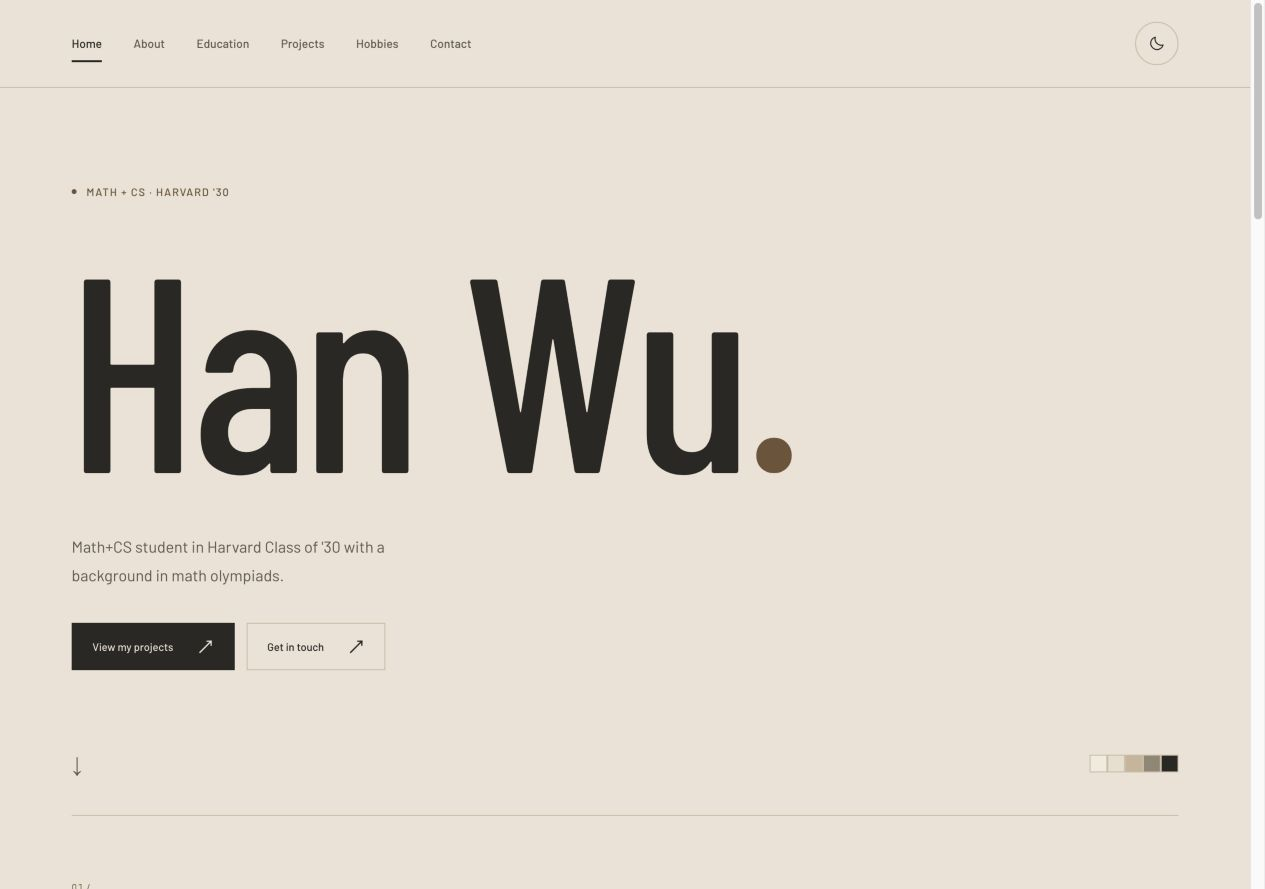
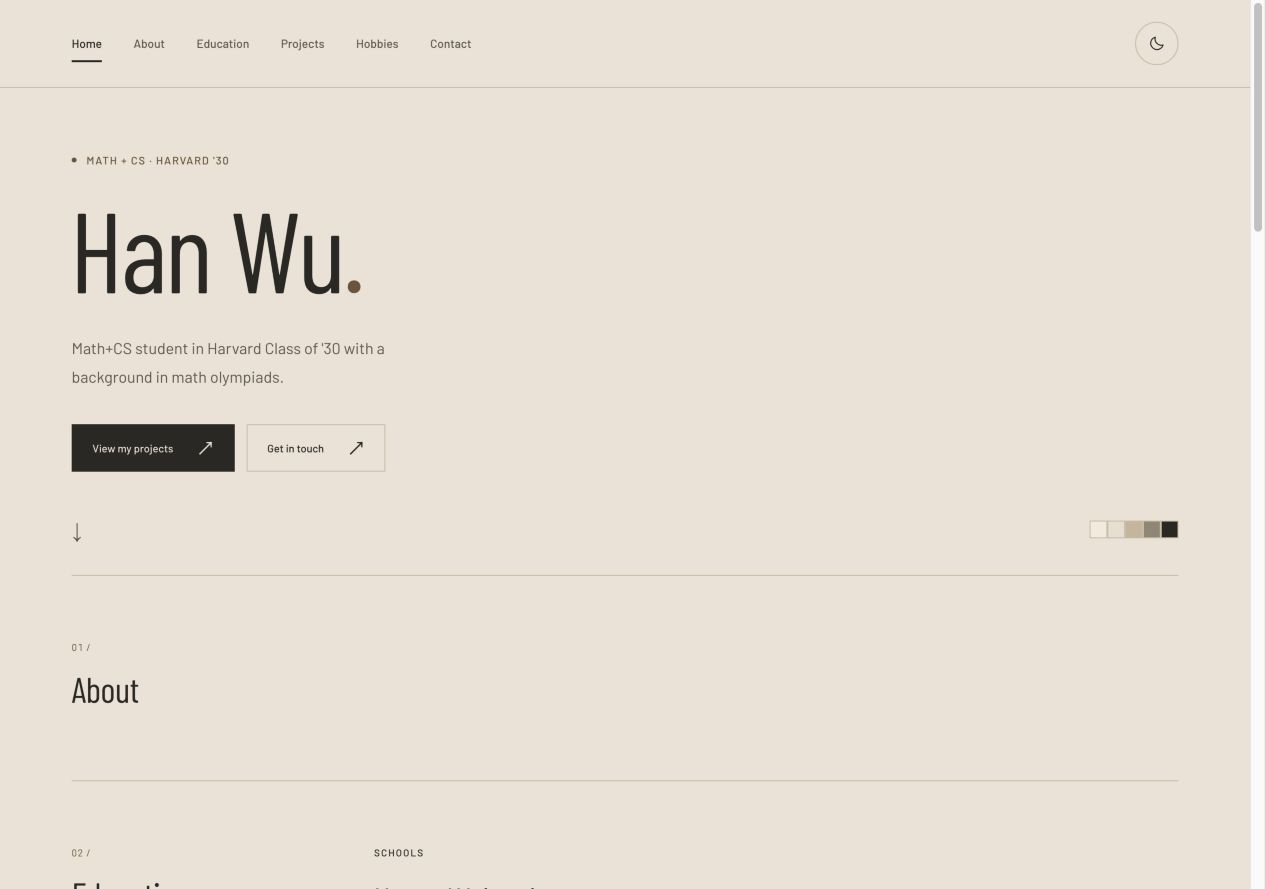
Reduce heading size and weight; use lists and expand club names

diff --git a/css/style.css b/css/style.css
@@ -37,10 +37,10 @@ ul { list-style: none; margin: 0; padding: 0; }
 .sun-icon { display: none; }
 html[data-theme="dark"] .sun-icon { display: block; }
 html[data-theme="dark"] .moon-icon { display: none; }
-.hero { padding-top: 96px; padding-bottom: 34px; }
+.hero { padding-top: 64px; padding-bottom: 28px; }
 .eyebrow { display: flex; align-items: center; gap: 10px; color: var(--accent); font-size: 11px; font-weight: 500; letter-spacing: .1em; text-transform: uppercase; }
 .status-dot { width: 5px; height: 5px; background: var(--accent); border-radius: 50%; }
-h1 { margin: 24px 0 32px -5px; font-family: "Barlow Condensed", "Arial Narrow", sans-serif; font-size: clamp(140px, 22vw, 280px); line-height: 1; font-weight: 500; letter-spacing: -.025em; white-space: nowrap; }
+h1 { margin: 20px 0 26px -2px; font-family: "Barlow Condensed", "Arial Narrow", sans-serif; font-size: clamp(80px, 9vw, 116px); line-height: 1.05; font-weight: 400; letter-spacing: -.025em; white-space: nowrap; }
 .name-period { color: var(--accent); }
 .tagline { max-width: 350px; font-size: 16px; color: var(--text-muted); line-height: 1.8; }
 .cta-row { display: flex; align-items: center; gap: 12px; margin-top: 34px; }
@@ -50,14 +50,14 @@ h1 { margin: 24px 0 32px -5px; font-family: "Barlow Condensed", "Arial Narrow", 
 .primary:hover { background: var(--accent); border-color: var(--accent); }
 .secondary { border: 1px solid var(--border); }
 .secondary:hover { background: var(--surface-2); border-color: var(--text-muted); }
-.hero-foot { display: flex; align-items: center; justify-content: space-between; margin-top: 76px; }
+.hero-foot { display: flex; align-items: center; justify-content: space-between; margin-top: 40px; }
 .down-mark { font-size: 22px; color: var(--text-muted); }
 .swatches { display: flex; }.swatches i { width: 18px; height: 18px; background: var(--sw-1); border: 1px solid var(--border); }
 .swatches i:nth-child(2) { background: var(--sw-2); }.swatches i:nth-child(3) { background: var(--sw-3); }.swatches i:nth-child(4) { background: var(--sw-4); }.swatches i:nth-child(5) { background: var(--sw-5); }
 .section { display: grid; grid-template-columns: 250px minmax(0, 1fr); gap: 56px; border-top: 1px solid var(--border); padding: 64px 0; }
 .section-head { align-self: start; display: flex; flex-direction: column; align-items: flex-start; gap: 12px; }
 .section-number { color: var(--accent); font-size: 10px; letter-spacing: .08em; font-variant-numeric: tabular-nums; }
-h2 { font-family: "Barlow Condensed", "Arial Narrow", sans-serif; font-size: 44px; font-weight: 500; letter-spacing: -.01em; line-height: 1.2; }
+h2 { font-family: "Barlow Condensed", "Arial Narrow", sans-serif; font-size: 36px; font-weight: 400; letter-spacing: -.01em; line-height: 1.2; }
 .empty-section { min-height: 208px; }
 .section-body { min-width: 0; }
 .prose p { max-width: 640px; margin-bottom: 20px; color: var(--text-muted); font-size: 16px; }
@@ -70,10 +70,12 @@ h2 { font-family: "Barlow Condensed", "Arial Narrow", sans-serif; font-size: 44p
 .school h4 { font-size: 25px; font-weight: 500; letter-spacing: -.045em; margin-bottom: 9px; line-height: 1.25; }
 .school p { color: var(--text-muted); font-size: 12px; max-width: 420px; line-height: 1.8; }
 .school .date { font-size: 10px; white-space: nowrap; padding-top: 4px; }
-.course-grid { display: grid; grid-template-columns: 1fr 1fr; border-top: 1px solid var(--border); border-left: 1px solid var(--border); }
-.course-grid li { padding: 24px; min-height: 132px; background: var(--surface); border-bottom: 1px solid var(--border); border-right: 1px solid var(--border); }
-.course-grid strong { font-weight: 500; font-size: 18px; letter-spacing: -.03em; }
-.course-description { display: block; font-size: 12px; color: var(--text-muted); line-height: 1.7; margin-top: 10px; max-width: 230px; }
+.course-description { color: var(--text-muted); }
+.course-list, .club-list { list-style: disc; padding-left: 19px; }
+.course-list li, .club-list li { padding-left: 3px; margin-bottom: 10px; font-size: 14px; line-height: 1.75; }
+.course-list li::marker, .club-list li::marker { color: var(--accent); font-size: 10px; }
+.course-list strong { font-weight: 500; }
+.club-acronym { color: var(--text-muted); }
 .tags { display: flex; flex-wrap: wrap; gap: 8px; }
 .tags li { padding: 7px 12px; background: var(--surface-2); color: var(--text); font-size: 10px; line-height: 1.5; }
 .award-list { border-top: 1px solid var(--border); }
@@ -97,12 +99,12 @@ h2 { font-family: "Barlow Condensed", "Arial Narrow", sans-serif; font-size: 44p
 .contact-list a:hover .contact-value { color: var(--accent); }.contact-list a:hover .contact-arrow { transform: translate(3px, -3px); }
 .site-footer { border-top: 1px solid var(--border); display: flex; align-items: center; gap: 32px; min-height: 104px; color: var(--text-muted); font-size: 10px; }
 .site-footer p:first-child { margin-right: auto; }.back-to-top { color: var(--text); display: grid; place-items: center; width: 44px; height: 44px; font-size: 20px; }
-@media (min-width: 1600px) { .hero { padding-top: 120px; padding-bottom: 44px; } }
+@media (min-width: 1600px) { .hero { padding-top: 76px; } }
 @media (max-width: 1000px) {
   .wrap { width: calc(100% - 64px); }.nav-links { gap: 20px; }
-  .hero { padding-top: 76px; }h1 { font-size: 22vw; }
+  .hero { padding-top: 56px; }
   .section { grid-template-columns: 190px minmax(0, 1fr); gap: 32px; }
-  h2 { font-size: 38px; }.school { grid-template-columns: 1fr; gap: 6px; }.school .date { padding-top: 0; }.button { padding-inline: 14px; gap: 16px; }
+  h2 { font-size: 34px; }.school { grid-template-columns: 1fr; gap: 6px; }.school .date { padding-top: 0; }.button { padding-inline: 14px; gap: 16px; }
 }
 @media (max-width: 680px) {
   :root { --nav-height: 76px; }.wrap { width: calc(100% - 40px); }
@@ -110,14 +112,14 @@ h2 { font-family: "Barlow Condensed", "Arial Narrow", sans-serif; font-size: 44p
   .theme-toggle { width: 34px; height: 34px; flex: none; }
   .nav-inner nav { flex: 1; min-width: 0; }.nav-links { display: grid; grid-template-columns: repeat(6, 1fr); gap: 0; }
   .nav-link { text-align: center; font-size: 10px; padding: 19px 0 16px; }.nav-link::after { bottom: 0; left: 8px; right: 8px; }
-  .hero { padding-top: 58px; }.eyebrow { font-size: 9px; }
-  h1 { font-size: clamp(110px, 32vw, 200px); margin: 20px 0 26px -2px; }.tagline { font-size: 14px; max-width: 310px; }
+  .hero { padding-top: 40px; }.eyebrow { font-size: 9px; }
+  h1 { font-size: clamp(64px, 20vw, 96px); margin: 18px 0 22px -1px; }.tagline { font-size: 14px; max-width: 310px; }
   .cta-row { margin-top: 25px; gap: 10px; }.button { font-size: 10px; padding-inline: 16px; gap: 20px; }
-  .hero-foot { margin-top: 52px; }
+  .hero-foot { margin-top: 32px; }
   .section { grid-template-columns: 1fr; padding: 38px 0; gap: 32px; }.section-head { flex-direction: row; align-items: baseline; gap: 18px; }
-  .section-number { font-size: 9px; }h2 { font-size: 34px; }.empty-section { min-height: 152px; gap: 0; }
+  .section-number { font-size: 9px; }h2 { font-size: 30px; }.empty-section { min-height: 152px; gap: 0; }
   .education-section { padding-bottom: 48px; }.school h4 { font-size: 25px; }.school p { font-size: 12px; }.school .date { margin-top: 5px; font-size: 10px; }
-  .education-group + .education-group { margin-top: 36px; }.course-grid li { padding: 18px; min-height: 150px; }.course-grid strong { font-size: 16px; }.course-description { font-size: 11px; }
+  .education-group + .education-group { margin-top: 36px; }.course-list li, .club-list li { font-size: 13px; }
   .award-list h4 { font-size: 12px; }.award-list p { font-size: 11px; }.award-list li { gap: 16px; }.project-grid { grid-template-columns: 1fr; }
   .contact-section { padding-bottom: 48px; }.contact-list a { grid-template-columns: minmax(0, 1fr) 20px; gap: 2px 12px; padding: 15px 0; }
   .contact-label { grid-column: 1; font-size: 9px; }.contact-value { grid-column: 1; font-size: 16px; }.contact-arrow { grid-column: 2; grid-row: 1 / 3; }

diff --git a/index.html b/index.html
@@ -68,14 +68,14 @@
         </div>
         <div class="education-group coursework">
           <h3 class="subhead">Coursework <span>— Fall 2026</span></h3>
-          <ul class="course-grid">
+          <ul class="course-list">
             <li><strong>Math 55a</strong><span class="course-description"> — Studies in Algebra and Group Theory</span></li>
             <li><strong>Stat 110</strong><span class="course-description"> — Introduction to Probability</span></li>
             <li><strong>CS 1210</strong><span class="course-description"> — Introduction to Theoretical Computer Science</span></li>
             <li><strong>Expos 20</strong></li>
           </ul>
         </div>
-        <div class="education-group extracurriculars"><h3 class="subhead">Extracurriculars</h3><ul class="tags"><li>AISST</li><li>HUSAC</li><li>HDAG</li><li>Harvard College Bowl</li><li>Harvard Poker Club</li><li>Chess Club</li><li>Board Games Club</li></ul></div>
+        <div class="education-group extracurriculars"><h3 class="subhead">Extracurriculars</h3><ul class="club-list"><li>AI Safety Student Team <span class="club-acronym">(AISST)</span></li><li>Harvard Undergraduate Sports Analysis Collective <span class="club-acronym">(HUSAC)</span></li><li>Harvard Undergraduate Data Analytics Group <span class="club-acronym">(HDAG)</span></li><li>Harvard College Bowl</li><li>Harvard Poker Club</li><li>Chess Club</li><li>Board Games Club</li></ul></div>
         <div class="education-group honors">
           <h3 class="subhead">Honors &amp; Awards</h3>
           <ul class="award-list">

diff --git a/docs/verification.md b/docs/verification.md
@@ -16,7 +16,7 @@ Verified in Chrome on October 14, 2026. The site is buildless static HTML/CSS/JS
 
 ## Text contrast
 
-All unique rendered text/background pairs were read from computed browser styles and checked using WCAG relative luminance. Decorative SVG, swatches, and ornaments are excluded.
+Rendered text/background pairs and reusable surface styles were checked using WCAG relative luminance. The list revision uses primary, muted, and accent text directly on the page background; all retain passing contrast. Decorative swatches and ornaments are excluded.
 
 | Theme | Text | Background | Ratio |
 | --- | --- | --- | --- |
@@ -37,6 +37,12 @@ All unique rendered text/background pairs were read from computed browser styles
 
 After the oatmeal palette revision, primary-button hover and future project links use the deeper accent. All rendered text pairs and button hover states meet 4.5:1. The hero illustration and corner logo are removed. Navigation and no-overflow checks were repeated after changing the fonts and phone header.
 
+The latest size revision reduces the main heading to 116px maximum on desktop and 64–96px on phones, uses regular weight (400), and tightens hero spacing. Desktop and phone captures were refreshed in both themes; navigation and overflow were rechecked.
+
 ## Screenshots
 
 Viewport and full-page captures for desktop light, desktop dark, phone light, and phone dark are in `docs/screenshots/`.
+
+## Club name sources
+
+The three abbreviated entries now include their full names, retaining the supplied acronyms. Names were checked against [AI Safety Student Team](https://aisst.ai/mission), [Harvard Undergraduate Sports Analysis Collective](https://harvardsportsanalysis.org/), and [Harvard Undergraduate Data Analytics Group](https://harvardanalytics.org/). Other club names are unchanged. Coursework and clubs use semantic bulleted lists, checked for wrapping on phones.

diff --git a/README.md b/README.md
@@ -1,6 +1,6 @@
 # Han Wu — personal website
 
-A single-page portfolio with warm oatmeal colors and tall Barlow Condensed headlines. The hero focuses on typography, and the header contains only navigation and the theme control. About, Projects, and Hobbies intentionally contain only their headings until real content is added.
+A single-page portfolio with warm oatmeal colors and restrained, light-weight Barlow Condensed headlines. The hero focuses on typography, and the header contains only navigation and the theme control. About, Projects, and Hobbies intentionally contain only their headings until real content is added.
 
 ## Structure
 
@@ -33,6 +33,8 @@ Keep the section IDs and headings so navigation and legacy links continue workin
 For About and Hobbies, add real `<p>` elements inside the corresponding `.section-body.prose`. The text column and paragraph spacing are already styled.
 
 For Projects, add `<article class="project-card">` elements inside `#projects .project-grid`. Each card can contain an `<h3>` title, a `<p>` description, a `<ul class="tags">` with `<li>` technology names, and an `<a>` with the real project URL. The existing grid uses two columns on desktop and one on mobile. No placeholder cards are shipped.
+
+Coursework and extracurriculars use simple lists. Preserve the full organization name and its acronym when updating a club entry.
 
 For schools and awards, follow the existing semantic article/list markup. Preserve award ordering from newest to oldest and retain a visible year on each entry.
 
